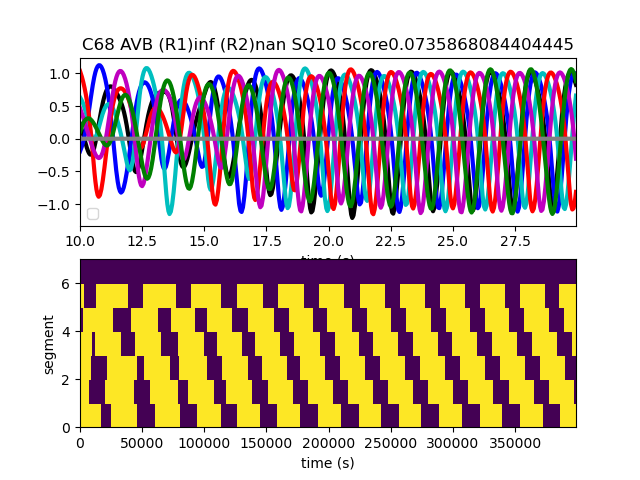
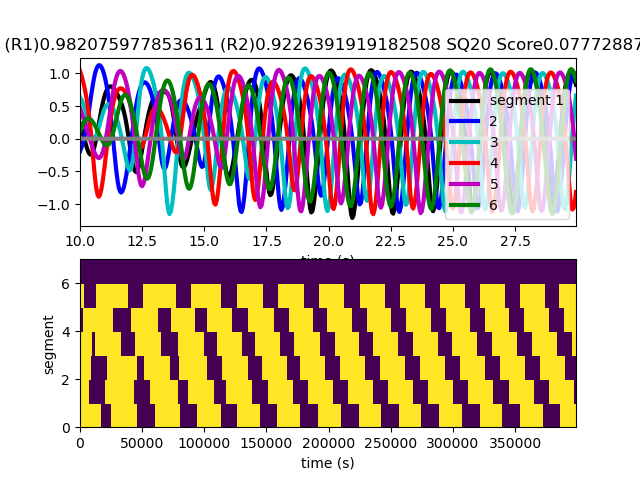
Got forward and backward working

Changed region(s): [[0.6875, 0.1562, 0.9062, 0.4688], [0.0, 0.0625, 1.0, 0.125]]

diff --git a/Functions.py b/Functions.py
@@ -265,7 +265,7 @@ def get_scores(rawdata, input):
         btofDecPhaseDiffs = np.zeros((len(seg2DecInds), 5))
 
         # ftob inc
-        for ix in np.arange(0, len(seg1IncInds)):
+        for ix in range(len(seg1IncInds)-1):
             percent_overlap = np.array([])
             ftobIncTimes = np.array([])
             ftobIncTimes = np.append(ftobIncTimes, seg1IncTimes[ix])
@@ -340,7 +340,7 @@ def get_scores(rawdata, input):
 
                                 ftobIncTimes = np.append(ftobIncTimes, next_ftobInc_seg6)
 
-            checkAltPeriod = seg1IncTimes[ix]
+            checkAltPeriod = seg1IncTimes[ix+1]
             if len(ftobIncTimes) == 6:
                 ftobIncCount = ftobIncCount + 1
                 ftobIncPropPeriod = ftobIncTimes[5] - ftobIncTimes[0]
@@ -354,7 +354,7 @@ def get_scores(rawdata, input):
                 allForwardTimeDiffs = np.append(allForwardTimeDiffs, ftobIncTimesDiff)
       
         # ftob dec
-        for ix in np.arange(0, len(seg1DecInds)):
+        for ix in range(len(seg1DecInds)-1):
             percent_overlap = np.array([])
             ftobDecTimes = np.array([])
             ftobDecTimes = np.append(ftobDecTimes, seg1DecTimes[ix])
@@ -371,7 +371,7 @@ def get_scores(rawdata, input):
                 overlap = next_ftobInc_seg1 - next_ftobDec_seg2
                 percent_overlap = np.append(percent_overlap, overlap/duration)
 
-                ftobDecTimes[1] = next_ftobDec_seg2
+                ftobDecTimes = np.append(ftobDecTimes, next_ftobDec_seg2)
                 if len(seg2IncTimes[seg2IncTimes > ftobDecTimes[1]]) > 0:
                     next_ftobInc_seg2 = np.min(seg2IncTimes[seg2IncTimes > ftobDecTimes[1]])
                 else:
@@ -385,7 +385,7 @@ def get_scores(rawdata, input):
                     overlap = next_ftobInc_seg2 - next_ftobDec_seg3
                     percent_overlap = np.append(percent_overlap, overlap/duration)
 
-                    ftobDecTimes[2] = next_ftobDec_seg3
+                    ftobDecTimes = np.append(ftobDecTimes, next_ftobDec_seg3)
                     if len(seg3IncTimes[seg3IncTimes > ftobDecTimes[2]]) > 0:
                         next_ftobInc_seg3 = np.min(seg3IncTimes[seg3IncTimes > ftobDecTimes[2]])
                     else:
@@ -399,7 +399,7 @@ def get_scores(rawdata, input):
                         overlap = next_ftobInc_seg3 - next_ftobDec_seg4
                         percent_overlap = np.append(percent_overlap, overlap/duration)
 
-                        ftobDecTimes[3] = next_ftobDec_seg4
+                        ftobDecTimes = np.append(ftobDecTimes, next_ftobDec_seg4)
                         if len(seg4IncTimes[seg4IncTimes > ftobDecTimes[3]]) > 0:
                             next_ftobInc_seg4 = np.min(seg4IncTimes[seg4IncTimes > ftobDecTimes[3]])
                         else:
@@ -413,7 +413,7 @@ def get_scores(rawdata, input):
                             overlap = next_ftobInc_seg4 - next_ftobDec_seg5
                             percent_overlap = np.append(percent_overlap, overlap/duration)
 
-                            ftobDecTimes[4] = next_ftobDec_seg5
+                            ftobDecTimes = np.append(ftobDecTimes, next_ftobDec_seg5)
                             if len(seg5IncTimes[seg5IncTimes > ftobDecTimes[4]]) > 0:
                                 next_ftobInc_seg5 = np.min(seg5IncTimes[seg5IncTimes > ftobDecTimes[4]])
                             else:
@@ -427,9 +427,9 @@ def get_scores(rawdata, input):
                                 overlap = next_ftobInc_seg5 - next_ftobDec_seg6
                                 percent_overlap = np.append(percent_overlap, overlap/duration)
 
-                                ftobDecTimes[5] = next_ftobDec_seg6
+                                ftobDecTimes = np.append(ftobDecTimes, next_ftobDec_seg6)
 
-            checkAltPeriod = seg1DecTimes[ix]
+            checkAltPeriod = seg1DecTimes[ix+1]
             if len(ftobDecTimes) == 6:
                 ftobDecCount = ftobDecCount + 1
                 ftobDecPropPeriod = ftobDecTimes[5] - ftobDecTimes[0]
@@ -443,7 +443,7 @@ def get_scores(rawdata, input):
                 allForwardTimeDiffs = np.append(allForwardTimeDiffs, ftobDecTimesDiff)
             
         # btof inc
-        for ix in np.arange(0, len(seg6IncInds)):
+        for ix in range(len(seg6IncInds)-1):
             percent_overlap = np.array([])
             btofIncTimes = np.array([])
             btofIncTimes = np.append(btofIncTimes, seg6IncTimes[ix])
@@ -460,7 +460,7 @@ def get_scores(rawdata, input):
                 overlap = next_btofDec_seg6 - next_btofInc_seg5
                 percent_overlap = np.append(percent_overlap, overlap/duration)
 
-                btofIncTimes[1] = next_btofInc_seg5
+                btofIncTimes = np.append(btofIncTimes, next_btofInc_seg5)
                 if len(seg5DecTimes[seg5DecTimes > btofIncTimes[1]]) > 0:
                     next_btofDec_seg5 = np.min(seg5DecTimes[seg5DecTimes > btofIncTimes[1]])
                 else:
@@ -474,7 +474,7 @@ def get_scores(rawdata, input):
                     overlap = next_btofDec_seg5 - next_btofInc_seg4
                     percent_overlap = np.append(percent_overlap, overlap/duration)
 
-                    btofIncTimes[2] = next_btofInc_seg4
+                    btofIncTimes = np.append(btofIncTimes, next_btofInc_seg4)
                     if len(seg4DecTimes[seg4DecTimes > btofIncTimes[2]]) > 0:
                         next_btofDec_seg4 = np.min(seg4DecTimes[seg4DecTimes > btofIncTimes[2]])
                     else:
@@ -488,7 +488,7 @@ def get_scores(rawdata, input):
                         overlap = next_btofDec_seg4 - next_btofInc_seg3
                         percent_overlap = np.append(percent_overlap, overlap/duration)
 
-                        btofIncTimes[3] = next_btofInc_seg3
+                        btofIncTimes = np.append(btofIncTimes, next_btofInc_seg3)
                         if len(seg3DecTimes[seg3DecTimes > btofIncTimes[3]]) > 0:
                             next_btofDec_seg3 = np.min(seg3DecTimes[seg3DecTimes > btofIncTimes[3]])
                         else:
@@ -502,7 +502,7 @@ def get_scores(rawdata, input):
                             overlap = next_btofDec_seg3 - next_btofInc_seg2
                             percent_overlap = np.append(percent_overlap, overlap/duration)
 
-                            btofIncTimes[4] = next_btofInc_seg2
+                            btofIncTimes = np.append(btofIncTimes, next_btofInc_seg2)
                             if len(seg2DecTimes[seg2DecTimes > btofIncTimes[4]]) > 0:
                                 next_btofDec_seg2 = np.min(seg2DecTimes[seg2DecTimes > btofIncTimes[4]])
                             else:
@@ -516,9 +516,9 @@ def get_scores(rawdata, input):
                                 overlap = next_btofDec_seg2 - next_btofInc_seg1
                                 percent_overlap = np.append(percent_overlap, overlap/duration)
 
-                                btofIncTimes[5] = next_btofInc_seg1
+                                btofIncTimes = np.append(btofIncTimes, next_btofInc_seg1)
 
-            checkAltPeriod = seg6IncTimes[ix]
+            checkAltPeriod = seg6IncTimes[ix+1]
             if len(btofIncTimes) == 6:
               btofIncCount = btofIncCount + 1
               btofIncPropPeriod = btofIncTimes[5] - btofIncTimes[0]
@@ -532,7 +532,7 @@ def get_scores(rawdata, input):
               allBackwardTimeDiffs = np.append(allBackwardTimeDiffs, btofIncTimesDiff)
           
         # btof dec
-        for ix in np.arange(0, len(seg6DecInds)):
+        for ix in range(len(seg6DecInds)-1):
             percent_overlap = np.array([])
             btofDecTimes = np.array([])
             btofDecTimes = np.append(btofDecTimes, seg6DecTimes[ix])
@@ -549,46 +549,50 @@ def get_scores(rawdata, input):
                 overlap = next_btofInc_seg6 - next_btofDec_seg5
                 percent_overlap = np.append(percent_overlap, overlap/duration)
 
-                btofDecTimes[1] = next_btofDec_seg5
-                if len(seg5DecTimes[seg5DecTimes > btofDecTimes[1]]) > 0:
-                    next_btofDec_seg5 = np.min(seg5DecTimes[seg5DecTimes > btofDecTimes[1]])
+                btofDecTimes = np.append(btofDecTimes, next_btofDec_seg5)
+                if len(seg5IncTimes[seg5IncTimes > btofDecTimes[1]]) > 0:
+                    next_btofInc_seg5 = np.min(seg5IncTimes[seg5IncTimes > btofDecTimes[1]])
                 else:
-                    next_btofDec_seg5 = 0
-                if len(seg4IncTimes[seg4IncTimes > btofDecTimes[1]]) > 0:
-                    next_btofInc_seg4 = np.min(seg4IncTimes[seg4IncTimes > btofDecTimes[1]])
+                    next_btofInc_seg5 = 0
+                if len(seg4DecTimes[seg4DecTimes > btofDecTimes[1]]) > 0:
+                    next_btofDec_seg4 = np.min(seg4DecTimes[seg4DecTimes > btofDecTimes[1]])
                 else:
-                    next_btofInc_seg4 = 0
-                if next_btofDec_seg5 > 0 and next_btofInc_seg4 > 0 and next_btofInc_seg4 < next_btofDec_seg5:
-                    duration = next_btofInc_seg4 - btofDecTimes[1]
-                    overlap = next_btofInc_seg4 - next_btofDec_seg5
+                    next_btofDec_seg4 = 0
+                if next_btofDec_seg5 > 0 and next_btofDec_seg4 > 0 and next_btofDec_seg4 < next_btofDec_seg5:
+                    duration = next_btofInc_seg5 - btofDecTimes[1]
+                    overlap = next_btofInc_seg5 - next_btofDec_seg4
                     percent_overlap = np.append(percent_overlap, overlap/duration)
 
-                    btofDecTimes[2] = next_btofDec_seg5
-                    if len(seg4DecTimes[seg4DecTimes > btofDecTimes[2]]) > 0:
-                        next_btofDec_seg4 = np.min(seg4DecTimes[seg4DecTimes > btofDecTimes[2]])
+                    btofDecTimes = np.append(btofDecTimes, next_btofDec_seg5)
+                    if len(seg4IncTimes[seg4IncTimes > btofDecTimes[2]]) > 0:
+                        next_btofInc_seg4 = np.min(seg4IncTimes[seg4IncTimes > btofDecTimes[2]])
                     else:
-                        next_btofDec_seg4 = 0
+                        next_btofInc_seg4 = 0
                     if len(seg3DecTimes[seg3DecTimes > btofDecTimes[2]]) > 0:
-                        next_btofInc_seg3 = np.min(seg3IncTimes[seg3IncTimes > btofDecTimes[2]])
+                        next_btofDec_seg3 = np.min(seg3DecTimes[seg3DecTimes > btofDecTimes[2]])
                     else:
-                        next_btofInc_seg3 = 0
-                    if next_btofDec_seg4 > 0 and next_btofInc_seg3 > 0 and next_btofInc_seg3 < next_btofDec_seg4:
-                        duration = next_btofInc_seg3 - btofDecTimes[2]
-                        overlap = next_btofInc_seg3 - next_btofDec_seg4
+                        next_btofDec_seg3 = 0
+                    if next_btofInc_seg4 > 0 and next_btofDec_seg3 > 0 and next_btofDec_seg3 < next_btofInc_seg4:
+                        duration = next_btofInc_seg4 - btofDecTimes[2]
+                        overlap = next_btofInc_seg4 - next_btofDec_seg3
                         percent_overlap = np.append(percent_overlap, overlap/duration)
 
-                        btofDecTimes[3] = next_btofDec_seg4
+                        btofDecTimes = np.append(btofDecTimes, next_btofDec_seg4)
                         if len(seg3IncTimes[seg3IncTimes > btofDecTimes[3]]) > 0:
                             next_btofInc_seg3 = np.min(seg3IncTimes[seg3IncTimes > btofDecTimes[3]])
                         else:
                             next_btofInc_seg3 = 0
-                        if next_btofInc_seg3 > 0 and next_btofDec_seg4 > 0 and next_btofDec_seg4 < next_btofInc_seg3:
+                        if len(seg2DecTimes[seg2DecTimes > btofDecTimes[3]]) > 0:
+                            next_btofDec_seg2 = np.min(seg2DecTimes[seg2DecTimes > btofDecTimes[3]])
+                        else:
+                            next_btofDec_seg2 = 0
+                        if next_btofInc_seg3 > 0 and next_btofDec_seg2 > 0 and next_btofDec_seg2 < next_btofInc_seg3:
                             duration = next_btofInc_seg3 - btofDecTimes[3]
-                            overlap = next_btofInc_seg3 - next_btofDec_seg4
+                            overlap = next_btofInc_seg3 - next_btofDec_seg2
                             percent_overlap = np.append(percent_overlap, overlap/duration)
 
-                            btofDecTimes[4] = next_btofDec_seg3
-                            if len(seg2DecTimes[seg2DecTimes > btofDecTimes[4]]) > 0:
+                            btofDecTimes = np.append(btofDecTimes, next_btofDec_seg3)
+                            if len(seg2IncTimes[seg2IncTimes > btofDecTimes[4]]) > 0:
                                 next_btofInc_seg2 = np.min(seg2IncTimes[seg2IncTimes > btofDecTimes[4]])
                             else:
                                 next_btofInc_seg2 = 0
@@ -601,9 +605,9 @@ def get_scores(rawdata, input):
                                 overlap = next_btofInc_seg2 - next_btofDec_seg1
                                 percent_overlap = np.append(percent_overlap, overlap/duration)
 
-                                btofDecTimes[5] = next_btofDec_seg1
+                                btofDecTimes = np.append(btofDecTimes, next_btofDec_seg1)
 
-            checkAltPeriod = seg6DecTimes[ix]
+            checkAltPeriod = seg6DecTimes[ix+1]
             if len(btofDecTimes) == 6:
                 btofDecCount = btofDecCount + 1
                 btofDecPropPeriod = btofDecTimes[5] - btofDecTimes[0]
@@ -699,7 +703,7 @@ def get_muscle_scores(rawdata, input):
     print("working")
 
 # Plot Kymograph for the First Forward Run
-def plotKymograph_AVB_First(rawdata, r1, AVB_ratio1, AVB_ratio2, FixMaxAVB, fbest):
+def plotKymograph(rawdata, r1, ratio1, ratio2, FixMax, fbest, input):
     rawt = rawdata[0, :]
     rawsegs = rawdata[1:, :]
 
@@ -756,9 +760,11 @@ def plotKymograph_AVB_First(rawdata, r1, AVB_ratio1, AVB_ratio2, FixMaxAVB, fbes
     plt.plot(t/1000, 0*t, color=[0.5, 0.5, 0.5], linewidth=3)
     plt.xlabel('time (s)')
     plt.legend(['segment 1', '2', '3', '4', '5', '6'])
-    plt.legend()
     plt.xlim([np.min(t/1000), np.max(t/1000)])
-    plt.title(f'C{r1} AVB (R1){AVB_ratio1} (R2){AVB_ratio2} SQ{FixMaxAVB} Score{fbest}')
+    if input == 'AVB':
+        plt.title(f'C{r1} AVB (R1){ratio1} (R2){ratio2} SQ{FixMax} Score{fbest}')
+    elif input == 'AVA':
+        plt.title(f'C{r1} AVA (R1){ratio1} (R2){ratio2} SQ{FixMax} Score{fbest}')
 
     plt.subplot(2, 1, 2)
     plt.pcolor(flagmat)

diff --git a/main.py b/main.py
@@ -1,21 +1,31 @@
 import settings
 from Fit_HuberBraun_Matrix_5param_AVB_First import Fit_HuberBraun_Matrix_5param_AVB_First
+from Fit_HuberBraun_Matrix_5param_AVA_Second import Fit_HuberBraun_Matrix_5param_AVA_Second
 
 settings.init()
 
-params44 = [44, 0.000363000000000000, 5.45726102941647e-06, 0.00167208415554239, 0.000660000000000000]
-params68 = [68, 0.000966628944244780, 8.33918539323647e-06, 0.00208400000000000, 0.00316478079207975]
-params81 = [81, 0.000757091833987073, 5.79833984374115e-06, 0.000936577073528412, 0.000512000000000000] 
-params94 = [94, 0.000892000000000000, 6.13378099174940e-06, 0.00201196569493983, 0.00502294791546334]
-params98 = [98, 0.000889000000000000, 1.11084610156032e-05, 0.00165239584154480, 0.000512000000000000]
-params106 = [106, 0.00100200000000000, 1.82358292522831e-05, 0.000903535078875878, 0.000512000000000000]
-params112 = [112, 0.00111725138757093, 1.16292177635975e-05, 0.00176500000000000, 0.00191920134428983]
-params = [params44, params68, params81, params94, params98, params106, params112]
+paramsAVB = [[44, 0.000363000000000000, 5.45726102941647e-06, 0.00167208415554239, 0.000660000000000000],
+           [68, 0.000966628944244780, 8.33918539323647e-06, 0.00208400000000000, 0.00316478079207975],
+           [81, 0.000757091833987073, 5.79833984374115e-06, 0.000936577073528412, 0.000512000000000000], 
+           [94, 0.000892000000000000, 6.13378099174940e-06, 0.00201196569493983, 0.00502294791546334],
+           [98, 0.000889000000000000, 1.11084610156032e-05, 0.00165239584154480, 0.000512000000000000],
+           [106, 0.00100200000000000, 1.82358292522831e-05, 0.000903535078875878, 0.000512000000000000],
+           [112, 0.00111725138757093, 1.16292177635975e-05, 0.00176500000000000, 0.00191920134428983]]
+paramsAVA = [[44, 0.00138300000000000, 5.45726102941647e-06, 0.00167208415554239, 0.000660000000000000],
+             [68, 0.000715663214366652, 8.33918539323647e-06, 0.00208400000000000, 0.00316478079207975],
+             [81, 0.00149599294308000, 5.79833984374115e-06, 0.000936577073528412, 0.000512000000000000],
+             [94, 0.000537000000000000, 6.13378099174940e-06, 0.00201196569493983, 0.00502294791546334], 
+             [98, 0.00104700000000000, 1.11084610156032e-05, 0.00165239584154480, 0.000512000000000000], 
+             [106, 0.000675000000000000, 1.82358292522831e-05, 0.000903535078875878, 0.000512000000000000], 
+             [112, 0.00126612633536624, 1.16292177635975e-05, 0.00176500000000000, 0.00191920134428983]]
 
-for param in params:
-    ubestAVB = param[1:]
-    r1 = param[0]
-    Fit_HuberBraun_Matrix_5param_AVB_First(ubestAVB, r1)
+
+for i in range(len(paramsAVB)):
+    ubestAVB = paramsAVB[i][1:]
+    r1 = paramsAVB[i][0]
+    SCOAVB, ratio1AVB, ratio2AVB, IncCount, DecCount, V_AVB, asd_AVB, asr_AVB, s_AVB = Fit_HuberBraun_Matrix_5param_AVB_First(ubestAVB, r1)
+    ubestAVA = paramsAVA[i][1:]
+    Fit_HuberBraun_Matrix_5param_AVA_Second(ubestAVA, r1, V_AVB, asd_AVB, asr_AVB, s_AVB)
 
 
 print("Done")

diff --git a/Fit_HuberBraun_Matrix_5param_AVA_Second.py b/Fit_HuberBraun_Matrix_5param_AVA_Second.py
@@ -4,7 +4,7 @@ import matplotlib.pyplot as plt
 import os
 import sys
 sys.path.append(os.path.dirname(os.path.dirname(os.path.abspath(__file__))))
-from Functions import get_scores, plotKymograph_AVB_First, HuberBraun_Matrix, get_muscle_scores
+from Functions import get_scores, plotKymograph, HuberBraun_Matrix, get_muscle_scores
 import settings
 
 def Fit_HuberBraun_Matrix_5param_AVA_Second(v, r1, V_AVB, asd_AVB, asr_AVB, s_AVB):
@@ -211,21 +211,20 @@ def Fit_HuberBraun_Matrix_5param_AVA_Second(v, r1, V_AVB, asd_AVB, asr_AVB, s_AV
   scores = get_scores(data, 'AVA')
   print(scores)
 
-  SCOAVB = scores[0]
+  SCOAVA = scores[0]
   IncCount = scores[3]
-  ratio1AVB = scores[-2]
+  ratio1AVA = scores[-2]
   DecCount = scores[4]
-  ratio2AVB = scores[-1]
+  ratio2AVA = scores[-1]
 
-  BestMaxAVB = IncCount + DecCount
-  V_AVB = V[-1, :].T
-  asd_AVB = asd[-1, :].T
-  asr_AVB = asr[-1, :].T
-  s_AVB = s[-1, :].T
-  data_AVB_1 = data;
+  BestMaxAVA = IncCount + DecCount
+  V_AVA = V[-1, :].T
+  asd_AVA = asd[-1, :].T
+  asr_AVA = asr[-1, :].T
+  s_AVA = s[-1, :].T
 
   H1 = plt.figure(1)
-  plotKymograph_AVB_First(data_AVB_1, r1, ratio1AVB, ratio2AVB, BestMaxAVB, SCOAVB)
-  plt.savefig(f'Data/Kymograph_Comb{r1}_AVB_First.png', format='png')
+  plotKymograph(data, r1, ratio1AVA, ratio2AVA, BestMaxAVA, SCOAVA, 'AVA')
+  plt.savefig(f'Data/Kymograph_Comb{r1}_AVA_Second.png', format='png')
   
-  return np.concatenate([SCOAVB, ratio1AVB, ratio2AVB, IncCount, DecCount, V_AVB, asd_AVB, asr_AVB, s_AVB, data_AVB_1])
+  return SCOAVA, ratio1AVA, ratio2AVA, IncCount, DecCount, V_AVA, asd_AVA, asr_AVA, s_AVA

diff --git a/Fit_HuberBraun_Matrix_5param_AVB_First.py b/Fit_HuberBraun_Matrix_5param_AVB_First.py
@@ -4,7 +4,7 @@ import matplotlib.pyplot as plt
 import os
 import sys
 sys.path.append(os.path.dirname(os.path.dirname(os.path.abspath(__file__))))
-from Functions import get_scores, plotKymograph_AVB_First, HuberBraun_Matrix, get_muscle_scores
+from Functions import get_scores, plotKymograph, HuberBraun_Matrix, get_muscle_scores
 import settings
 
 def Fit_HuberBraun_Matrix_5param_AVB_First(v, r1):
@@ -222,8 +222,9 @@ def Fit_HuberBraun_Matrix_5param_AVB_First(v, r1):
     asd_AVB = asd[-1, :].T
     asr_AVB = asr[-1, :].T
     s_AVB = s[-1, :].T
-    data_AVB_1 = data;
 
     H1 = plt.figure(r1)
-    plotKymograph_AVB_First(data_AVB_1, r1, ratio1AVB, ratio2AVB, BestMaxAVB, SCOAVB)
+    plotKymograph(data, r1, ratio1AVB, ratio2AVB, BestMaxAVB, SCOAVB, 'AVB')
     plt.savefig(f'Data/Kymograph_Comb{r1}_AVB_First.png', format='png')
+
+    return SCOAVB, ratio1AVB, ratio2AVB, IncCount, DecCount, V_AVB, asd_AVB, asr_AVB, s_AVB
